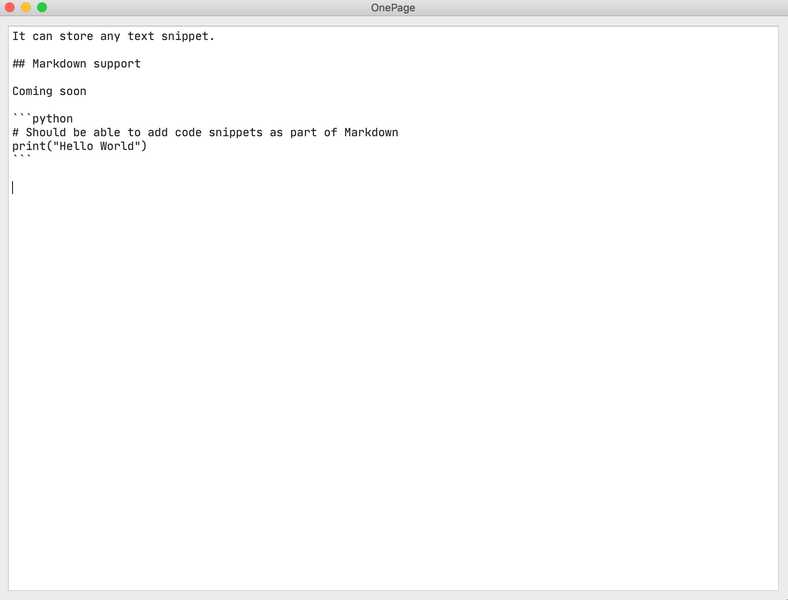
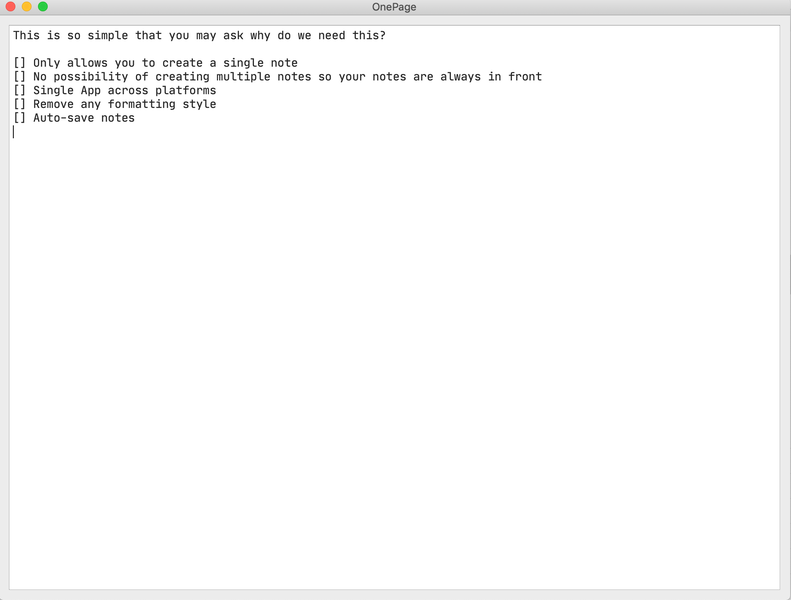
Release 0.2.0
Removed unused dependency, updated revision and README

Changed region(s): [[0.0, 0.0, 0.7005, 0.27], [0.9746, 0.96, 1.0, 0.99], [0.9746, 0.03, 1.0, 0.06]]

diff --git a/app/__init__.py b/app/__init__.py
@@ -1,7 +1,6 @@
-__version__ = "0.1.0"
-__appname__ = "onepage"
+__version__ = "0.2.0"
+__appname__ = "OnePage"
 __description__ = "Simple ScratchPad"
 __desktopid__ = "dev.deskriders.OnePage"
 
 from app.generated import resources_rc  # noqa
-from pygments.styles.default import DefaultStyle  # noqa

diff --git a/README.md b/README.md
@@ -1,6 +1,19 @@
 ## OnePage
 
-Simple ScratchPad supporting only one notes page.
+Simple ScratchPad supporting only one page.
+
+### Some features:
+
+🚀 Only allows you to create a single note
+
+🚀 No possibility of creating multiple notes so your notes are always in front
+
+🚀 Single App across platforms
+
+🚀 Remove any formatting style
+
+🚀 Auto-save notes
+
 
 ![OnePage](docs/images/one-page-screen.png)
 
@@ -13,5 +26,3 @@ Downloads are currently available for MacOS and Windows.
 [Windows App](https://github.com/namuan/one-page-releases/releases/download/0.1.0/onepage-win-0.1.0.zip)
 
 [Linux from Source](docs/installation.md)
-
-
